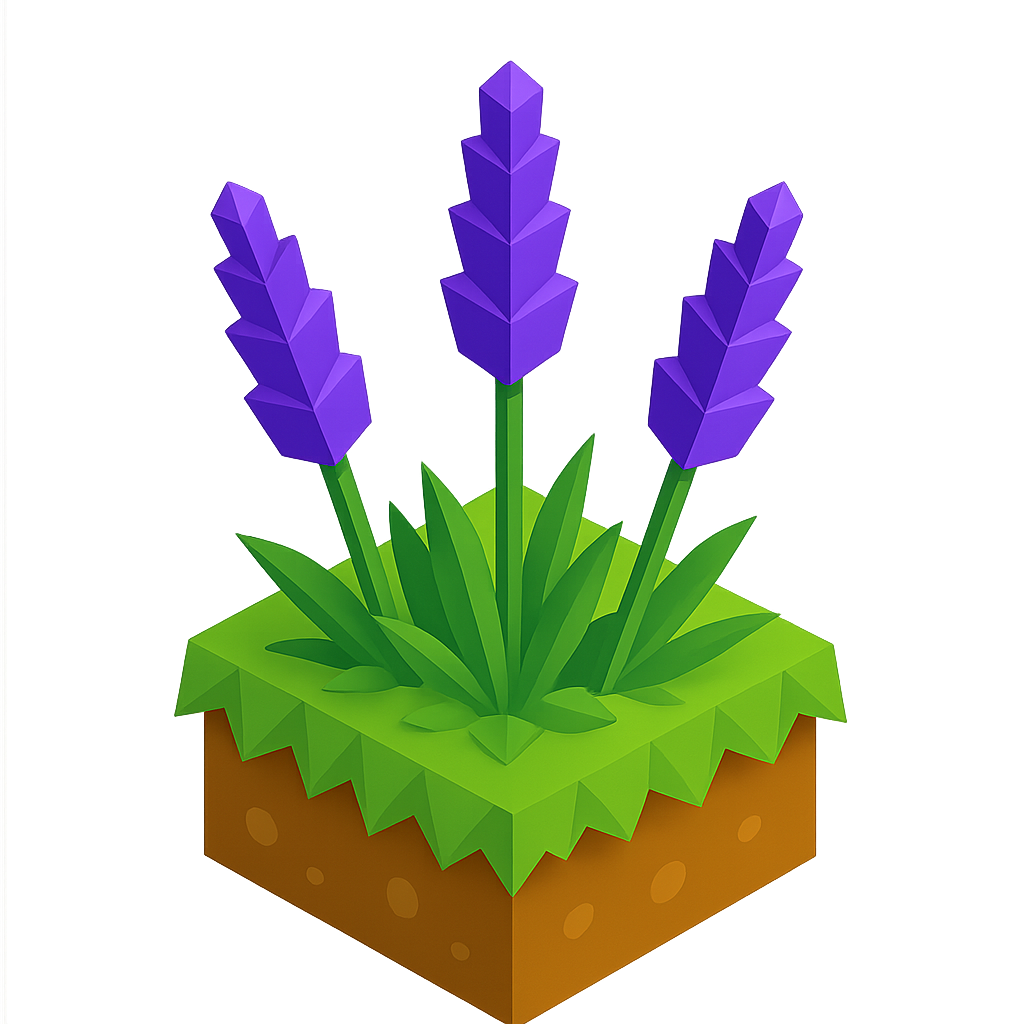
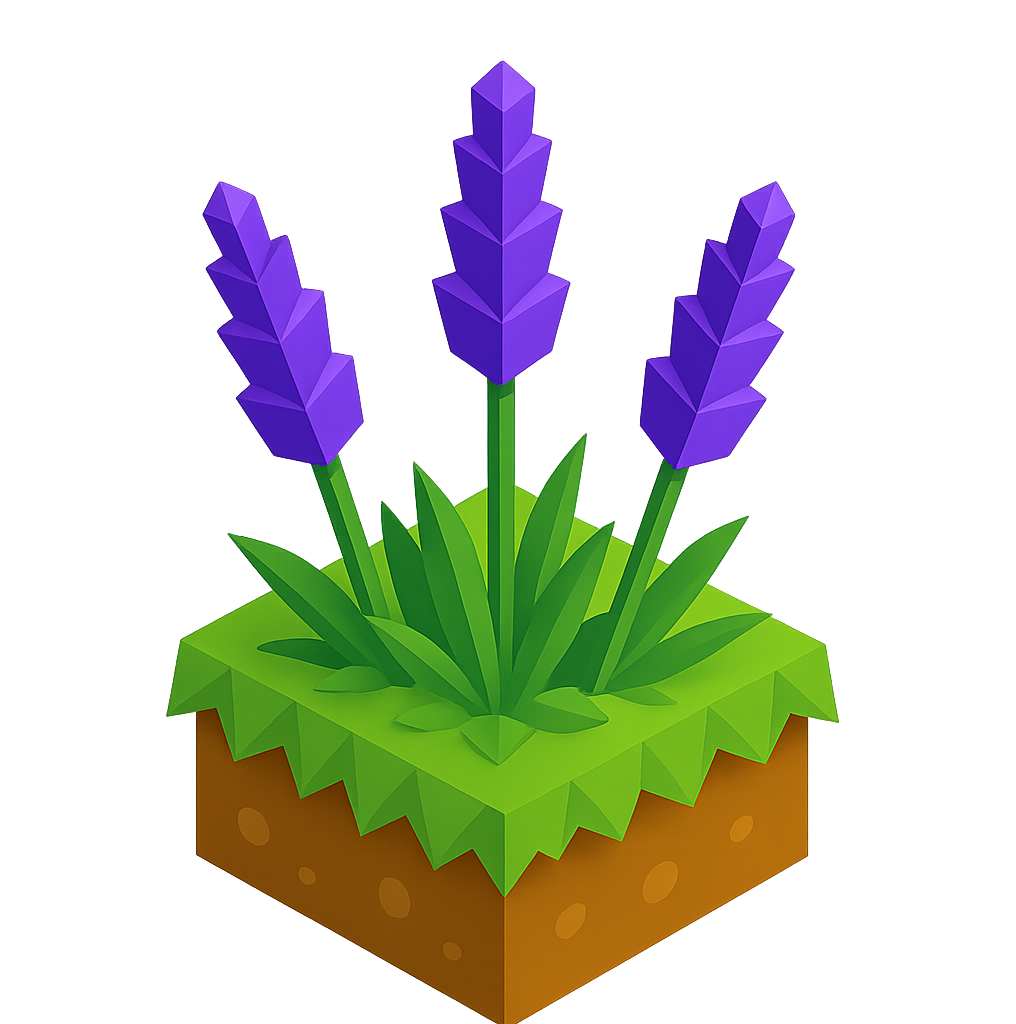
fixed lavendar

diff --git a/app/constants/blocks.ts b/app/constants/blocks.ts
@@ -52,7 +52,7 @@ export const BLOCK_TYPES: Record<string, BlockType> = {
     rarity: 'uncommon',
     category: 'plant',
     imageScale: 1.7,  // Similar to marigold
-    yOffset: 15// Slightly less lift than marigold
+    yOffset: 14// Slightly less lift than marigold
   },
   'bird-of-paradise': {
     id: 'bird-of-paradise',
